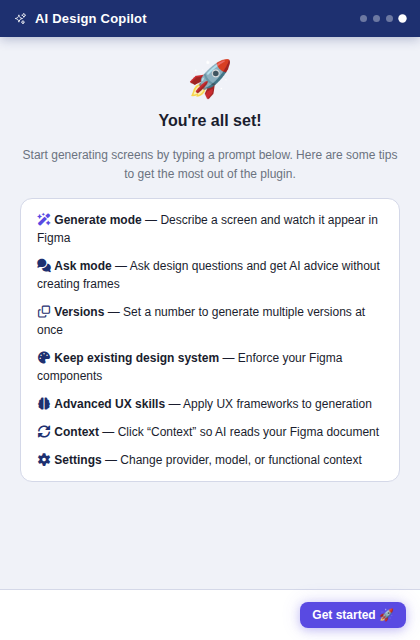
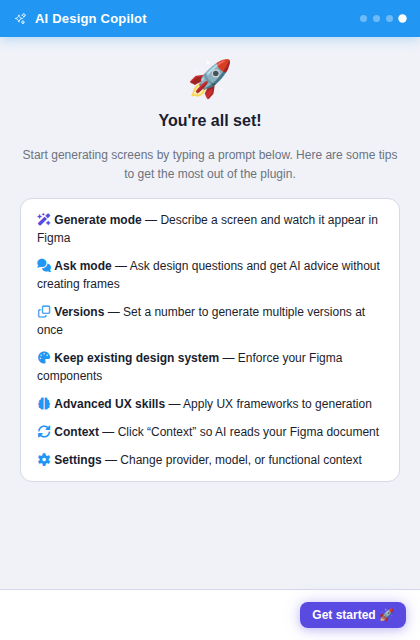
feat: update primary blue from #1e3070 to lighter #2196F3 (Material Blue 500)
- Update --primary, --primary-hover, --primary-light CSS variables
- Update --primary-glow, --border-aura, --shadow-aura rgba values
- Replace all 13 hardcoded rgba(30,48,112,...) with rgba(33,150,243,...)
- Regenerate all 9 README screenshots with new lighter blue color scheme"

diff --git a/ui.html b/ui.html
@@ -14,12 +14,12 @@
       --border: #d4d8e8;
 
       /* ── Brand colour (blue) – app chrome, focus rings, links ── */
-      --primary: #1e3070;
-      --primary-hover: #162558;
-      --primary-light: #2d46a0;
+      --primary: #2196F3;
+      --primary-hover: #1E88E5;
+      --primary-light: #64B5F6;
       --primary-text: #ffffff;
-      --primary-glow: rgba(30, 48, 112, 0.35);
-      --border-aura: rgba(30, 48, 112, 0.18);
+      --primary-glow: rgba(33, 150, 243, 0.35);
+      --border-aura: rgba(33, 150, 243, 0.18);
 
       /* ── Action colour (purple / MudBlazor) – primary CTA buttons only ─ */
       --action: #594AE2;
@@ -36,7 +36,7 @@
 
       --radius: 8px;
       --radius-lg: 12px;
-      --shadow-aura: 0 0 0 1px var(--border-aura), 0 0 16px rgba(30, 48, 112, 0.10);
+      --shadow-aura: 0 0 0 1px var(--border-aura), 0 0 16px rgba(33, 150, 243, 0.10);
       --font: -apple-system, BlinkMacSystemFont, "Segoe UI", Roboto, sans-serif;
 
       --status-ready: #16a34a;
@@ -82,7 +82,7 @@
       align-items: center;
       justify-content: space-between;
       flex-shrink: 0;
-      box-shadow: 0 2px 12px rgba(30, 48, 112, 0.30);
+      box-shadow: 0 2px 12px rgba(33, 150, 243, 0.30);
     }
 
     .header__brand {
@@ -197,7 +197,7 @@
       width: 32px;
       height: 2px;
       border-radius: 2px;
-      background: rgba(30, 48, 112, 0.30);
+      background: rgba(33, 150, 243, 0.30);
     }
 
     /* ── Options Bar (checkboxes + skills info on main page) ──── */
@@ -285,7 +285,7 @@
       align-items: center;
       justify-content: space-between;
       flex-shrink: 0;
-      box-shadow: 0 2px 12px rgba(30, 48, 112, 0.30);
+      box-shadow: 0 2px 12px rgba(33, 150, 243, 0.30);
     }
 
     .settings-overlay__title {
@@ -322,9 +322,9 @@
       height: 1px;
       background: linear-gradient(90deg,
         transparent 0%,
-        rgba(30, 48, 112, 0.20) 30%,
-        rgba(30, 48, 112, 0.35) 50%,
-        rgba(30, 48, 112, 0.20) 70%,
+        rgba(33, 150, 243, 0.20) 30%,
+        rgba(33, 150, 243, 0.35) 50%,
+        rgba(33, 150, 243, 0.20) 70%,
         transparent 100%);
       pointer-events: none;
     }
@@ -542,7 +542,7 @@
       padding: 10px 14px 12px;
       flex-shrink: 0;
       overflow: hidden;
-      box-shadow: 0 -2px 12px rgba(30, 48, 112, 0.07);
+      box-shadow: 0 -2px 12px rgba(33, 150, 243, 0.07);
     }
 
     /* ── Mode toggle (Generate / Ask tabs) ───────────────────── */
@@ -585,7 +585,7 @@
     .mode-tab--active {
       background: var(--primary);
       color: var(--primary-text);
-      box-shadow: 0 1px 6px rgba(30, 48, 112, 0.25);
+      box-shadow: 0 1px 6px rgba(33, 150, 243, 0.25);
     }
     .mode-tab:focus-visible {
       outline: none;
@@ -633,7 +633,7 @@
     }
     textarea:focus {
       border-color: var(--primary);
-      box-shadow: 0 0 0 3px var(--primary-glow), 0 0 18px rgba(30, 48, 112, 0.12);
+      box-shadow: 0 0 0 3px var(--primary-glow), 0 0 18px rgba(33, 150, 243, 0.12);
     }
     textarea::placeholder { color: var(--text-muted); }
 
@@ -693,7 +693,7 @@
 
     .btn:focus-visible {
       outline: none;
-      box-shadow: 0 0 0 3px var(--primary-glow), 0 0 16px rgba(30, 48, 112, 0.15);
+      box-shadow: 0 0 0 3px var(--primary-glow), 0 0 16px rgba(33, 150, 243, 0.15);
     }
 
     .hint {
@@ -758,7 +758,7 @@
     .drop-zone:hover, .drop-zone--active {
       border-color: var(--primary);
       background: var(--drop-zone-active-bg);
-      box-shadow: 0 0 0 3px var(--primary-glow), 0 0 16px rgba(30, 48, 112, 0.10);
+      box-shadow: 0 0 0 3px var(--primary-glow), 0 0 16px rgba(33, 150, 243, 0.10);
     }
     .drop-zone__label {
       font-size: 11px;
@@ -810,7 +810,7 @@
       font-size: 10px;
       font-weight: 600;
       padding: 2px 9px;
-      border: 1px solid rgba(30, 48, 112, 0.12);
+      border: 1px solid rgba(33, 150, 243, 0.12);
     }
     .skill-tag--remote {
       background: #e8f5e9;
@@ -890,7 +890,7 @@
       align-items: center;
       justify-content: space-between;
       flex-shrink: 0;
-      box-shadow: 0 2px 12px rgba(30, 48, 112, 0.30);
+      box-shadow: 0 2px 12px rgba(33, 150, 243, 0.30);
     }
 
     .onboarding-header__brand {
